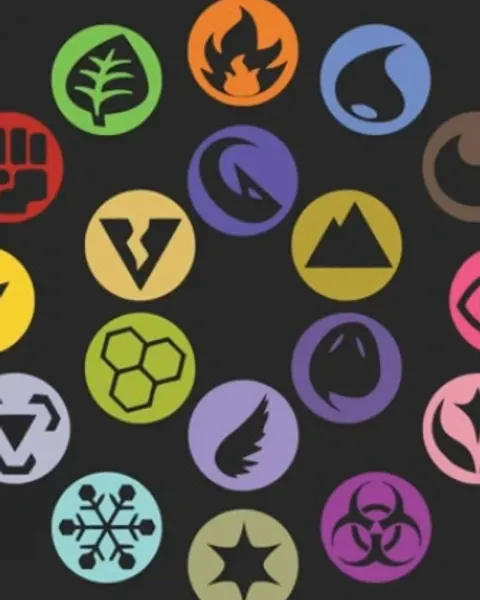
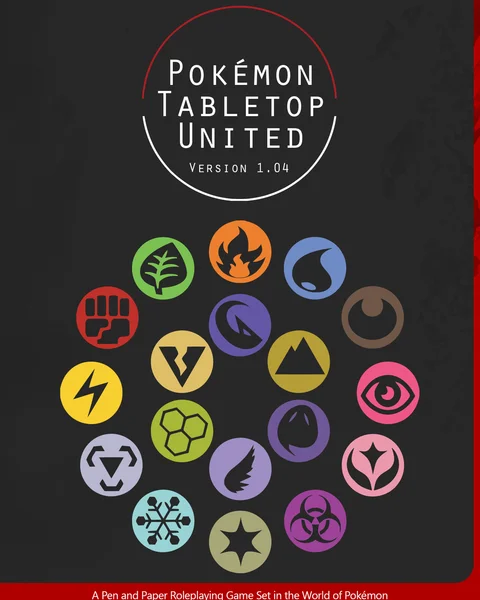
System pictures: sharper covers for 14 systems (CoC 6e, Classic Traveller, Fate Condensed, GURPS 3e, Nimble 5e, M&M 2e, Pokemon Tabletop United, Shadowrun 4e, Savage Worlds Deluxe, The One Ring 1e (was the 2e cover), Traveller Mongoose 1e, VtR 1e, WFRP 2e and 3e)

diff --git a/docs/art-credits.md b/docs/art-credits.md
@@ -15,3 +15,5 @@ The other 30 pictures are for editions StartPlaying does not list. They were fou
 ## If someone asks for a picture to be removed
 
 Delete the file in `public/images/genres/` or `public/images/systems/`. For a system also delete its line in `src/lib/system-covers.ts` and the tile falls back to the cover of its soonest listing. For a genre, put a replacement file of the same name (a genre tile without a picture file shows a plain colour block). Then push; the next build drops it. The file stays in git history, so if the request needs it gone completely, the history has to be rewritten too.
+
+A second pass the same day replaced 14 of those 30 with sharper pictures (2e/3e/4e covers and older books): Fate Condensed (Evil Hat's itch.io page), GURPS 3e (Warehouse 23), Call of Cthulhu 6e and Shadowrun 4e (Open Library), Nimble 5e and Savage Worlds Deluxe (Nimble Co. and Pinnacle shop pages), Mutants & Masterminds 2e, Vampire: The Requiem 1st Edition, Warhammer Fantasy Roleplay 2e (Wikipedia) and 3e, Pokémon Tabletop United (its own cover instead of StartPlaying's icon pattern), The One Ring 1e (the 2011 box; it had wrongly shown the 2nd edition cover), Classic Traveller (the Starter Edition box art, without its title) and Traveller (Mongoose 1st Edition) (its black cover, centred). Legend of the Five Rings 4th Edition and Shadowrun 3e stay at about 300 px, the best found.
